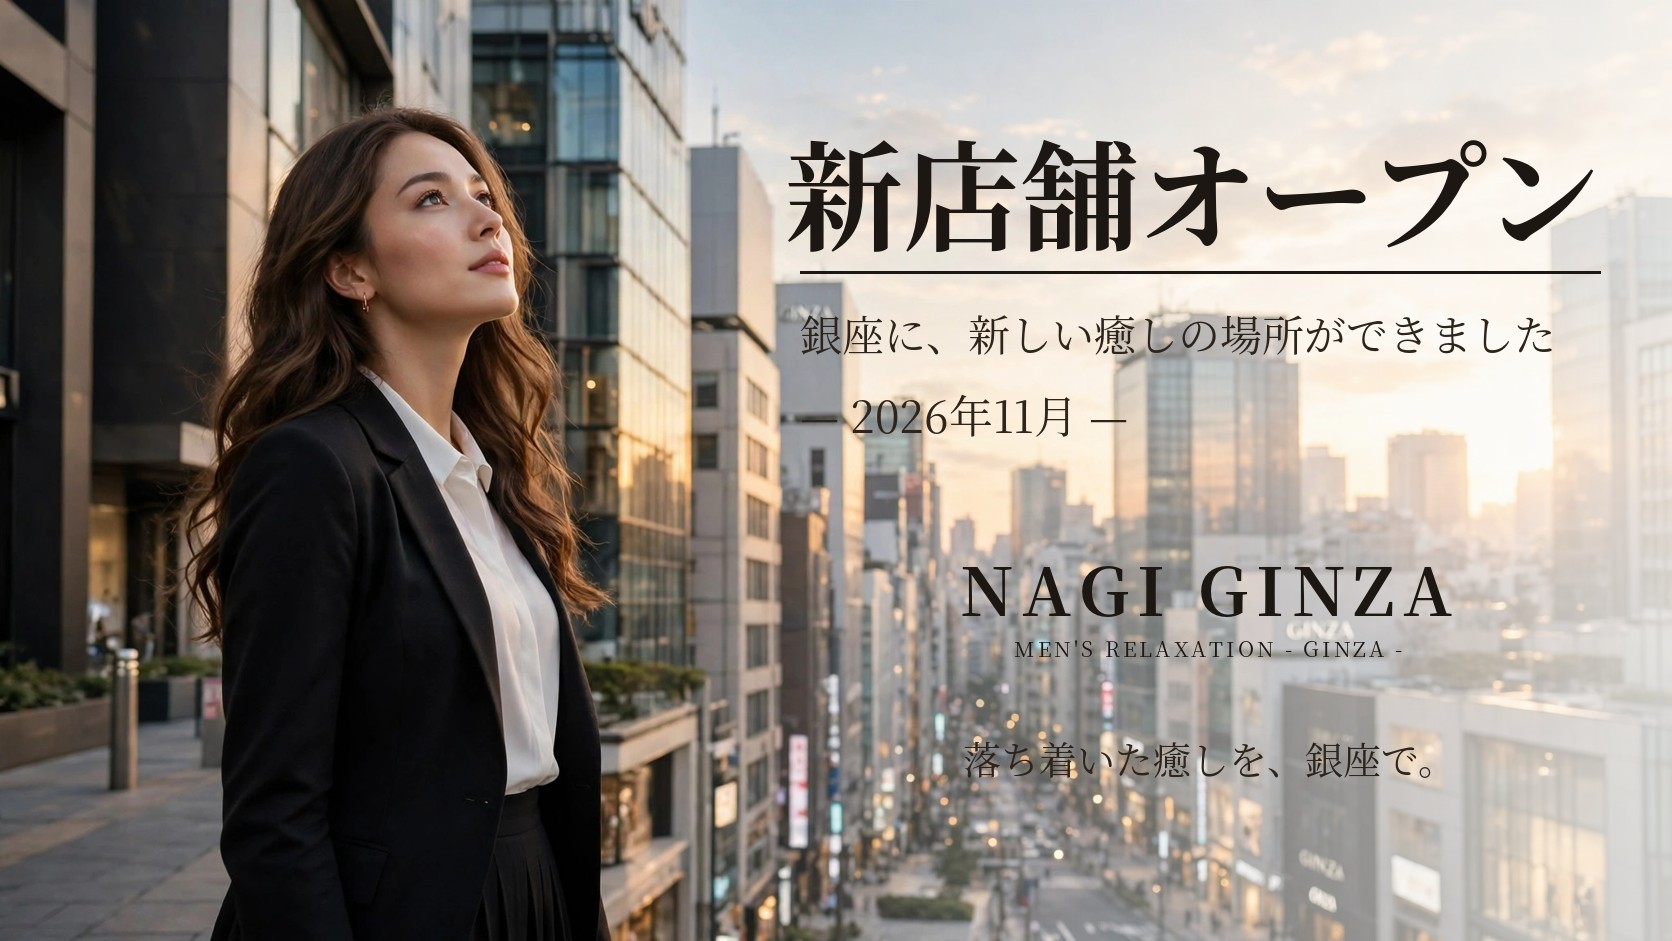
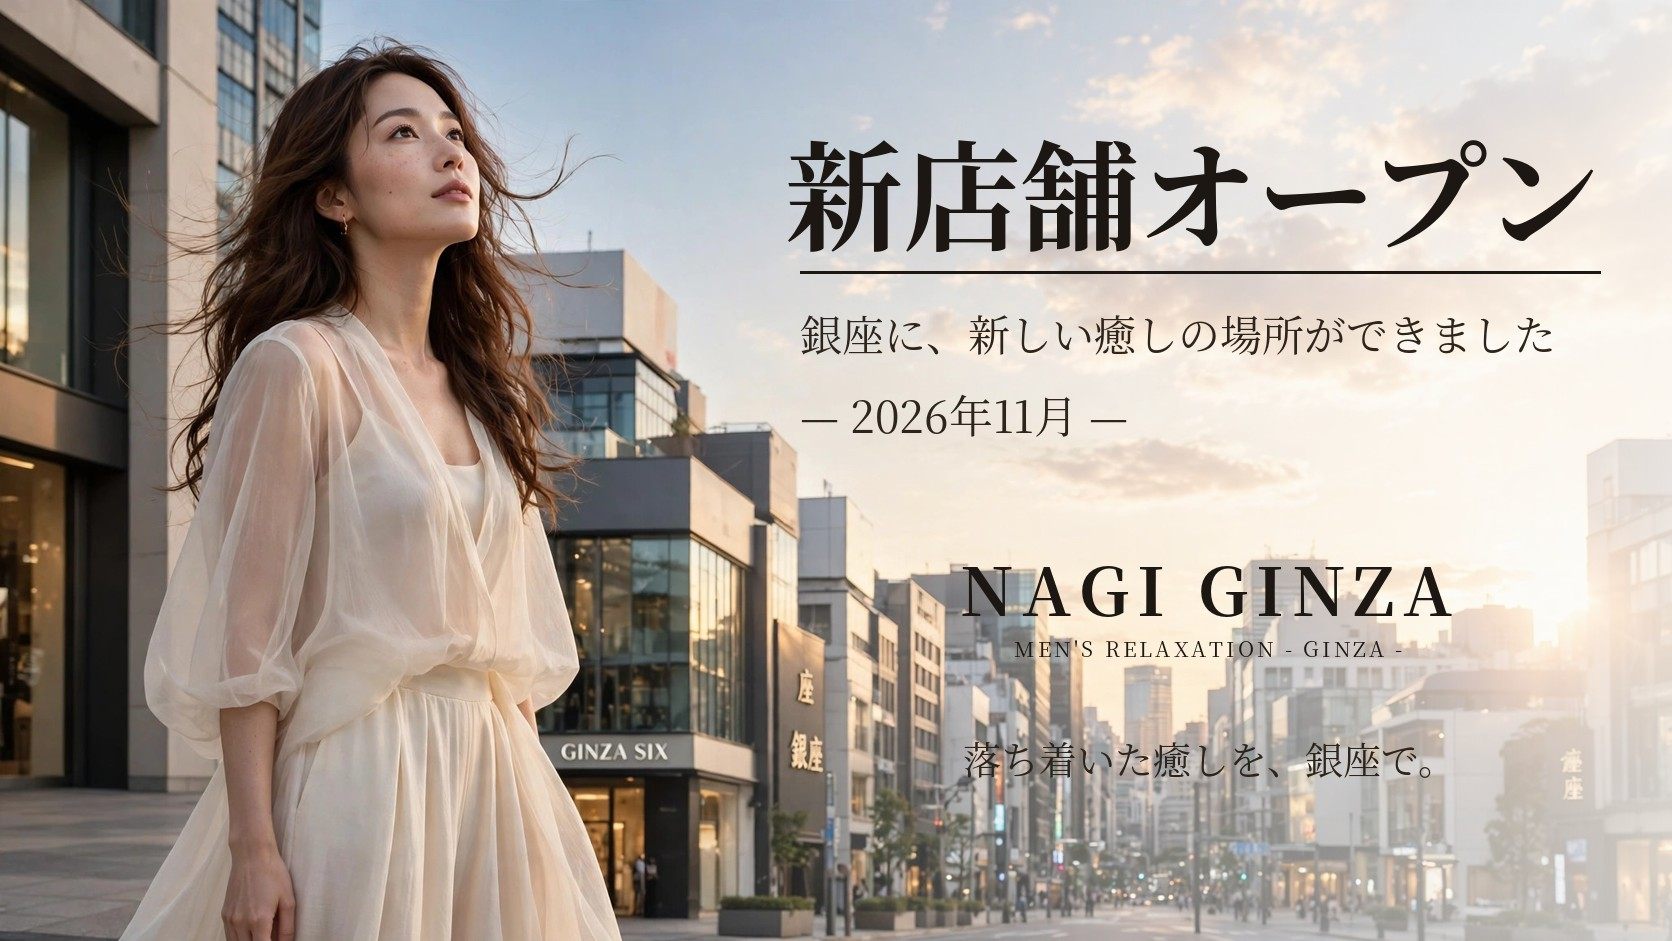
ME-GINZA v5: banner1 sheer woman + CONCEPT off-white with concept copy (Ao direction)

diff --git a/index.html b/index.html
@@ -77,6 +77,17 @@
     <style></style>
 
 
+
+<style>
+/* NAGI GINZA: CONCEPT をオフホワイトに変更（Ao 指示 2026-11-03） */
+#concept { background: #f7f2ea !important; }
+#concept::before { background: #f7f2ea !important; -webkit-backdrop-filter: none !important; backdrop-filter: none !important; }
+#concept h2, #concept h2 span { color: #3a3128 !important; }
+#concept h2 span::after { background: #b08d57 !important; }
+#concept .tatekaki_title::before { color: rgba(90, 74, 55, 0.15) !important; }
+#concept h4 { color: #4a3b2a !important; }
+#concept p { color: #55483a !important; }
+</style>
 </head>
 
 
@@ -425,8 +436,8 @@
                 </h2>
         </div>
       <div class="concept_inner">
-                        <h4></h4>
-          <p></p>
+                        <h4>静けさが、ほどく。</h4>
+          <p>銀座の喧騒を離れ、扉の向こうは静かな隠れ家。<br>『凪』は、忙しい日々に凝り固まった心と体を、<br>ゆっくりとほどくためのメンズリラクゼーションです。<br>深い呼吸を取り戻すアロマの香りと、確かな手技のボディケア。<br>完全個室の落ち着いた空間で、<br>どなたにも気兼ねなくお過ごしいただけます。<br>銀座で過ごす、凪のようなひとときを。</p>
                     </div>
     </section>
   
